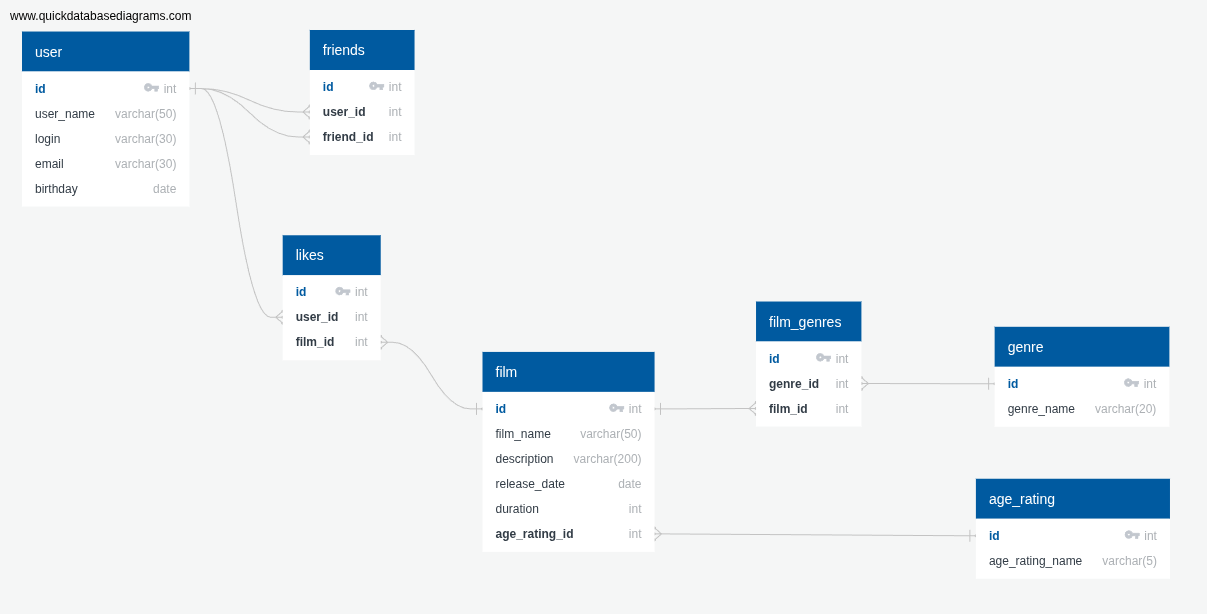
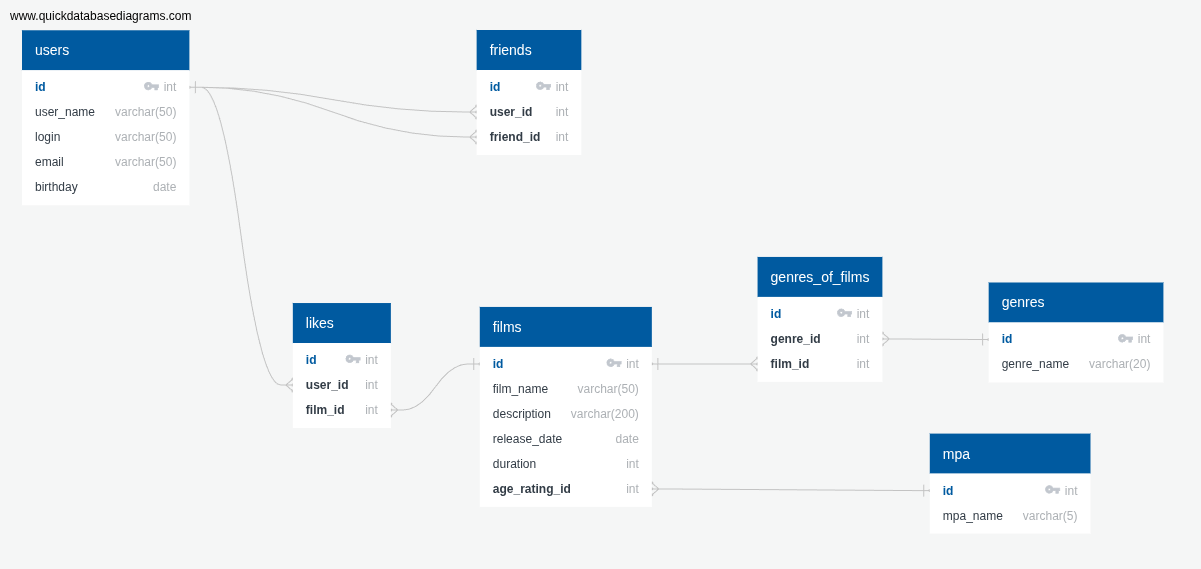
Поправить readme

diff --git a/README.md b/README.md
@@ -10,7 +10,7 @@ The Filmorate project.
 ```sql
 SELECT f.film_name,
        sum(l.user_id) AS rate
-FROM film f
+FROM films f
          JOIN likes l ON f.id = l.film_id
 GROUP BY f.film_name
 ORDER BY rate DESC
@@ -24,27 +24,27 @@ ORDER BY rate DESC
 SELECT f.film_name,
        f.release_date,
        f.duration
-FROM "film" f
+FROM films f
 WHERE f.id IN
       (SELECT l.film_id
-       FROM "likes" l
+       FROM likes l
        WHERE l.user_id IN
              (SELECT friend_id
-              FROM "friends" fr
+              FROM friends fr
               WHERE fr.user_id IN (5, 6, 7)
-              )
-       )
+             )
+      )
   AND f.duration > 100
   AND f.id IN
       (SELECT fg.film_id
        FROM genres_of_films fg
        WHERE fg.genre_id IN
              (SELECT g.id
-              FROM genre g
-              WHERE g.genre_name 
-                    IN('adventure, "horror', 'action')
-              )
-       );
+              FROM genres g
+              WHERE g.genre_name
+                       IN('Боевик', 'Триллер', 'Комедия')
+             )
+      );
 ```
 
 
